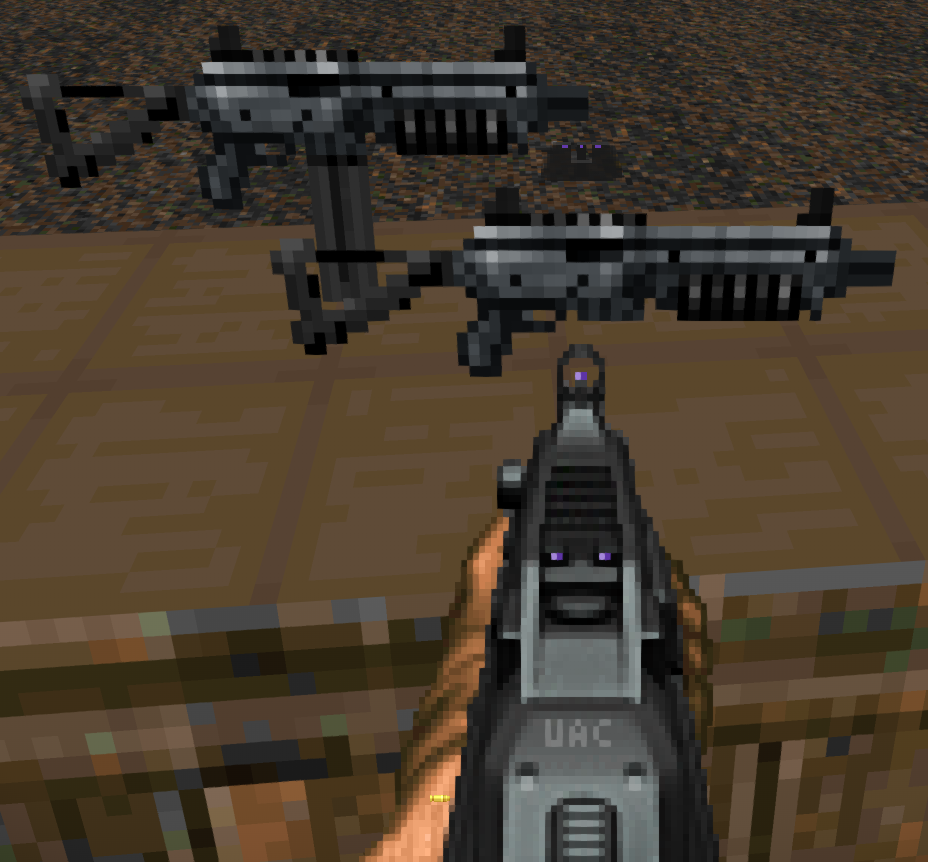
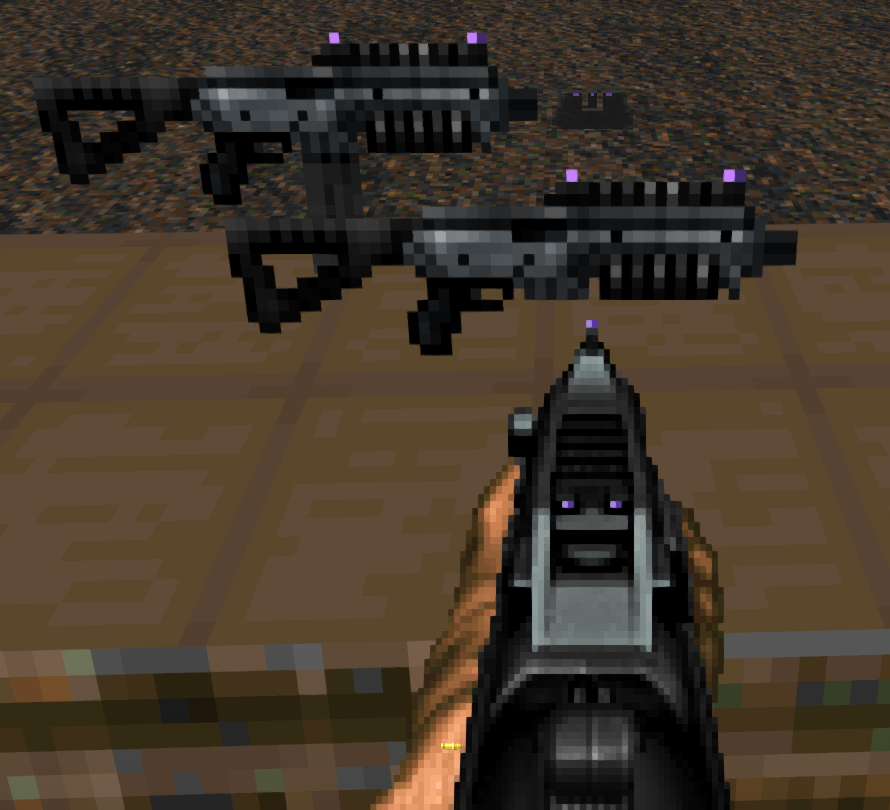
Update SMG Replacement Sprites

diff --git a/readme.md b/readme.md
@@ -60,8 +60,8 @@ The SMG has been swapped out with something a bit more modern and sleek, as well
 ![smg](./screenshots/smg.png)  
 ![smg-reflex](./screenshots/smg-reflex.png)  
 _Credits:  
-HUD Sprites: ZikShadow, Jeimuzu, DoomNukem  
-Pickup Sprites: ZikShadow, DoomNukem_
+HUD Sprites: vitriolicv, ZikShadow, Jeimuzu, DoomNukem  
+Pickup Sprites: vitriolicv, ZikShadow, DoomNukem_
 
 #### Arkoudi Revolver Shotgun
 _Arkoudi Revolver Shotgun requires [Potetobloke's Weapon Pack](https://cdn.discordapp.com/attachments/713246305392001055/1017590614365323295/PB-Mohl_HDAddon_WeaponPack_4.8.2a_RC2a.pk3)_
